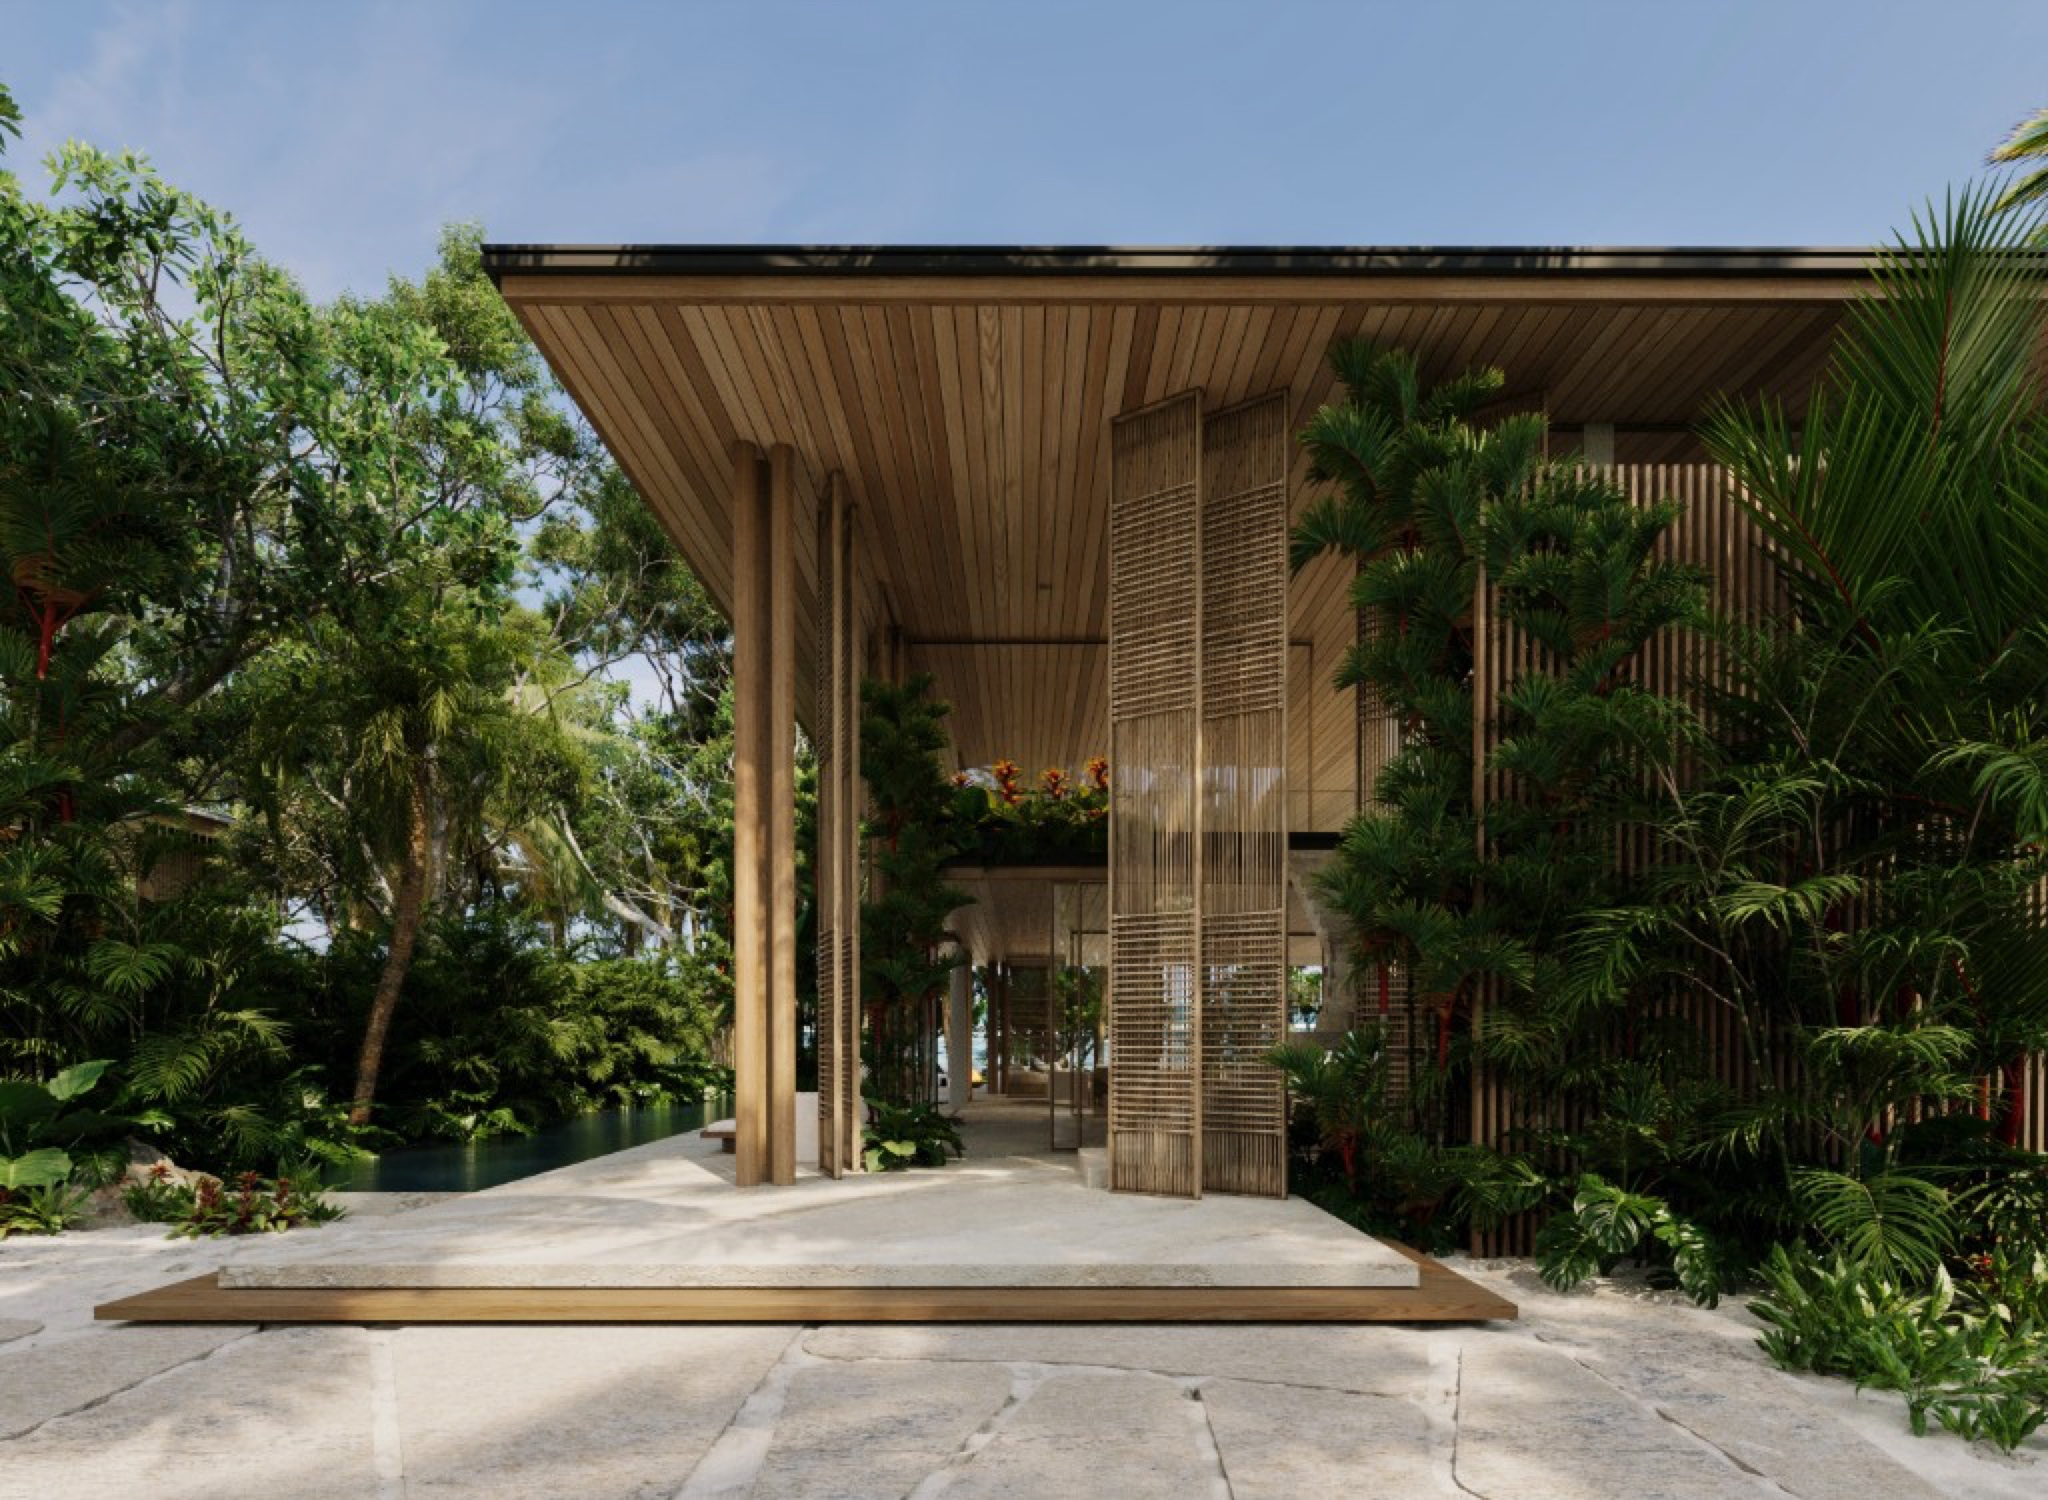
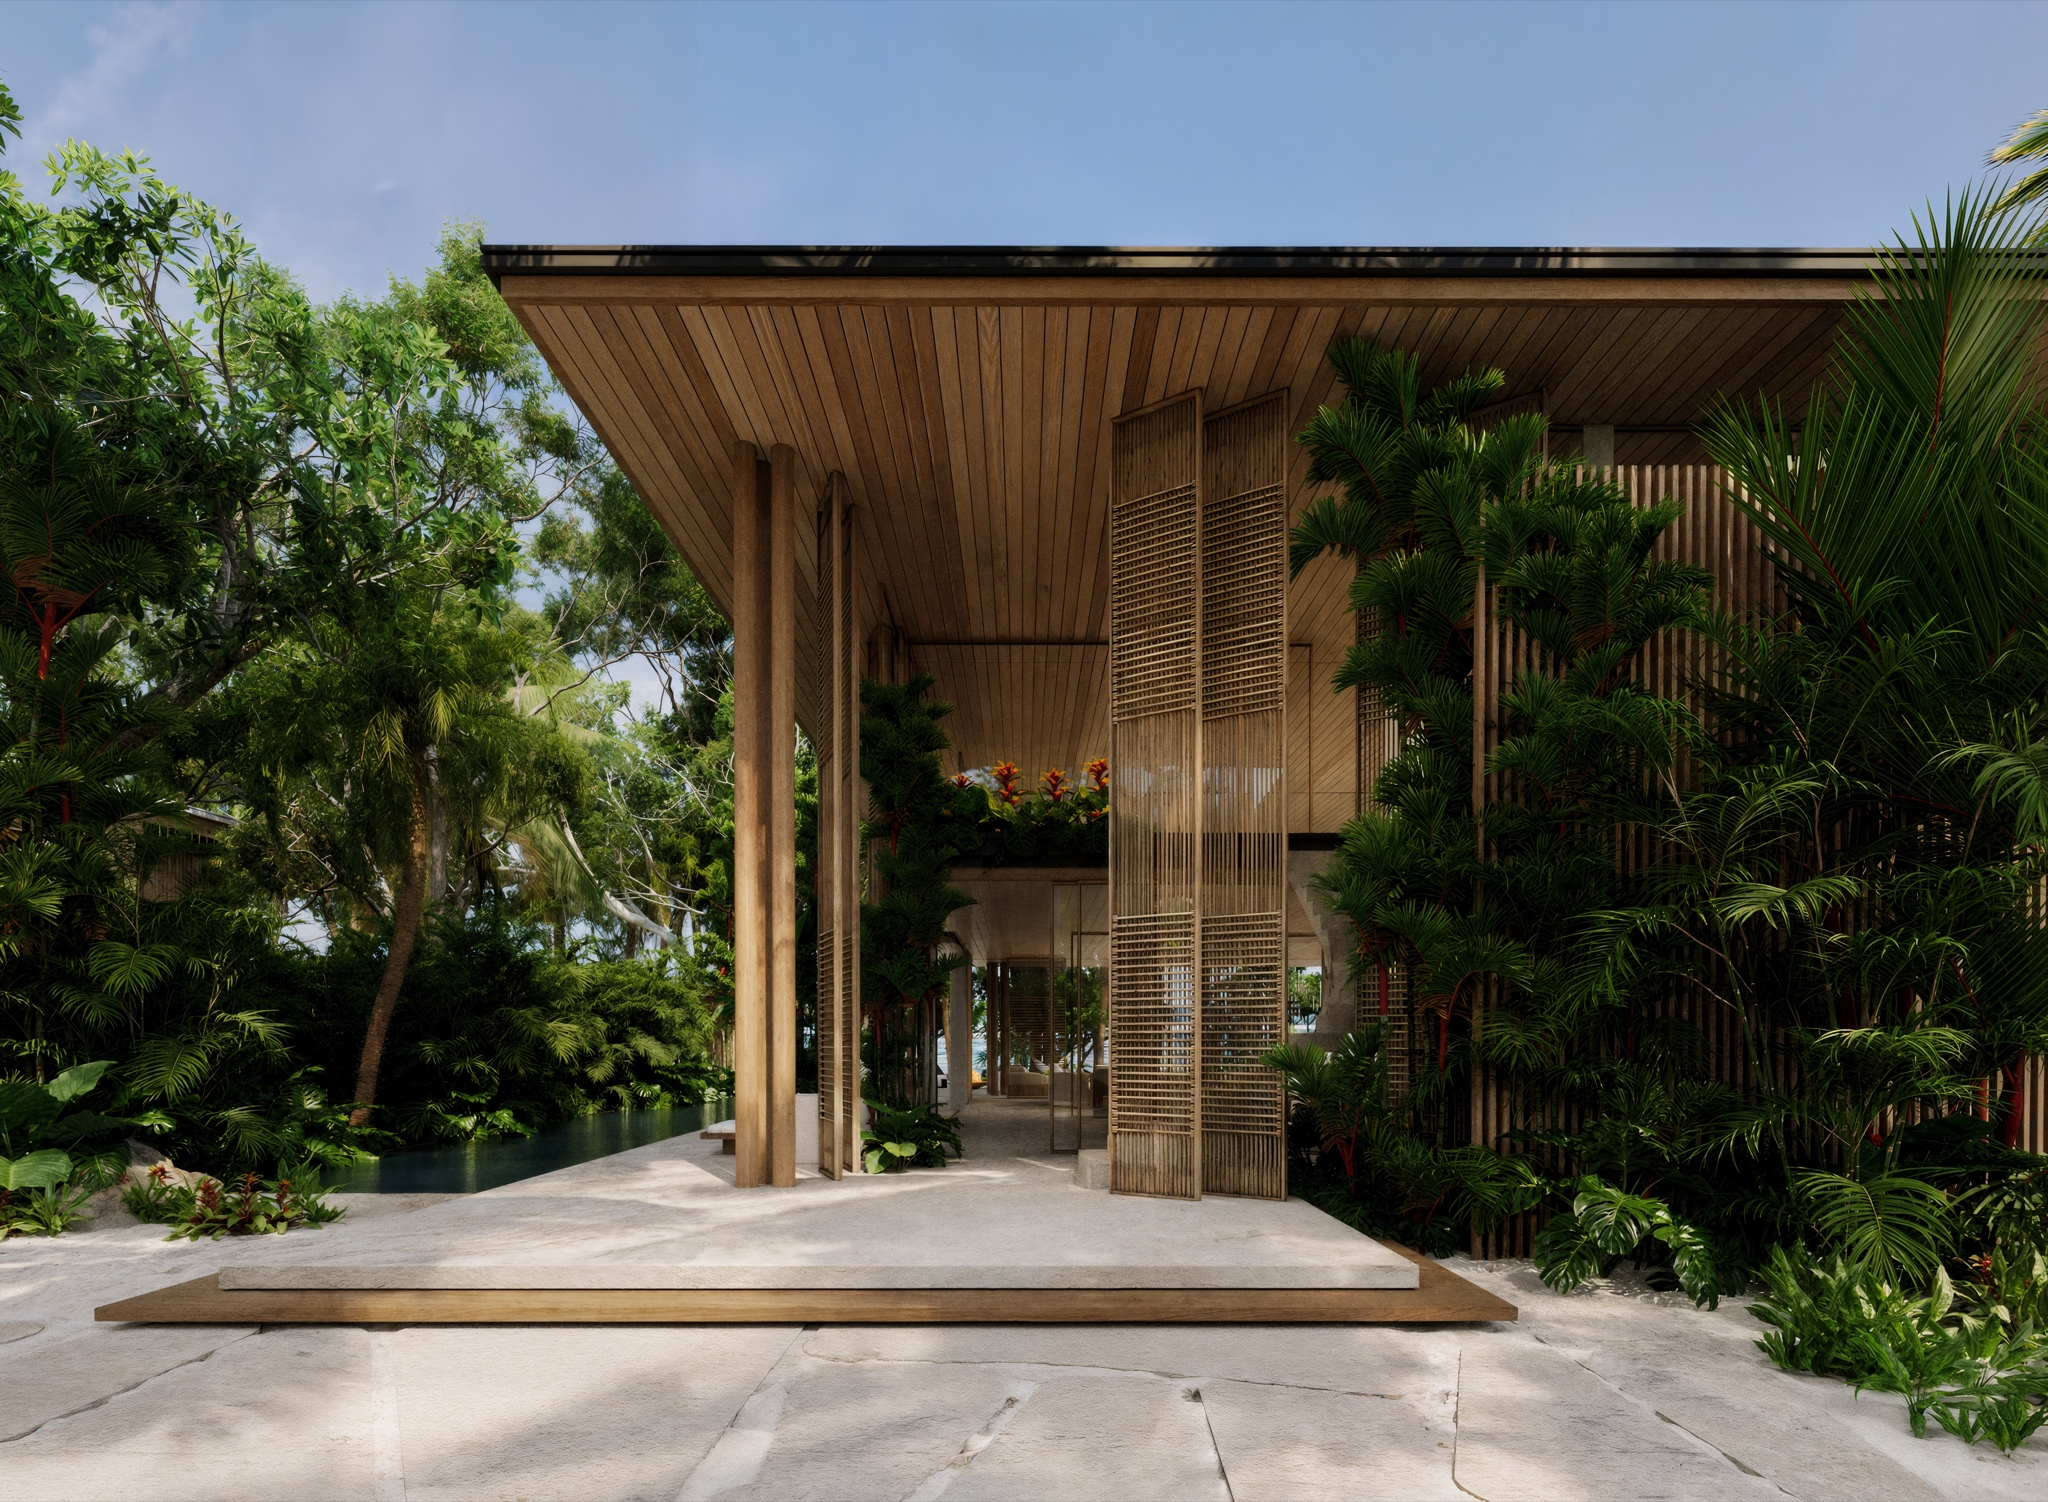
Update Flora hero and ecosystem imagery with new high-res exports.
Replace delivery assets and bump media cache version so GitHub Pages serves the new Flora backgrounds.

diff --git a/index.html b/index.html
@@ -25,7 +25,7 @@
     <link
       rel="preload"
       as="image"
-      href="assets/opt/enhanced_hero-bg-roca.jpg?v=20260610-1240"
+      href="assets/opt/enhanced_hero-bg-roca.jpg?v=20260610-1330"
       fetchpriority="high"
     />
   </head>
@@ -162,7 +162,7 @@
               <video
                 class="beyond__image beyond__video"
                 data-src="assets/jet.mp4?v=20260604-1527"
-                poster="assets/opt/beyond-jet.jpg?v=20260610-1240"
+                poster="assets/opt/beyond-jet.jpg?v=20260610-1330"
                 width="314"
                 height="188"
                 muted
@@ -188,7 +188,7 @@
               <video
                 class="beyond__image beyond__video"
                 data-src="assets/yacht.mp4?v=20260604-1525"
-                poster="assets/opt/beyond-yacht.jpg?v=20260610-1240"
+                poster="assets/opt/beyond-yacht.jpg?v=20260610-1330"
                 width="314"
                 height="188"
                 muted
@@ -227,15 +227,15 @@
             <div class="days__stage" aria-roledescription="carousel" aria-label="Experience highlights">
               <div class="days__track">
                 <article class="days__card" data-index="0">
-                  <img src="assets/opt/days-water.jpg?v=20260610-1240" alt="" width="205" height="274" loading="lazy" decoding="async" />
+                  <img src="assets/opt/days-water.jpg?v=20260610-1330" alt="" width="205" height="274" loading="lazy" decoding="async" />
                   <span class="days__label">Water sports</span>
                 </article>
                 <article class="days__card" data-index="1">
-                  <img src="assets/opt/days-dining.jpg?v=20260610-1240" alt="" width="205" height="274" loading="lazy" decoding="async" />
+                  <img src="assets/opt/days-dining.jpg?v=20260610-1330" alt="" width="205" height="274" loading="lazy" decoding="async" />
                   <span class="days__label">Fine dining</span>
                 </article>
                 <article class="days__card" data-index="2">
-                  <img src="assets/opt/days-wellness.jpg?v=20260610-1240" alt="" width="205" height="274" loading="lazy" decoding="async" />
+                  <img src="assets/opt/days-wellness.jpg?v=20260610-1330" alt="" width="205" height="274" loading="lazy" decoding="async" />
                   <span class="days__label">Wellness</span>
                 </article>
               </div>
@@ -257,7 +257,7 @@
           <video
             class="cta-final__video"
             data-src="assets/footer.mp4"
-            poster="assets/opt/cta-footer-poster.jpg?v=20260610-1240"
+            poster="assets/opt/cta-footer-poster.jpg?v=20260610-1330"
             width="2052"
             height="1008"
             muted

diff --git a/js/lazy-media.js b/js/lazy-media.js
@@ -1,7 +1,7 @@
 const ECOSYSTEM_GRADIENT =
   "linear-gradient(180deg, rgba(51, 47, 46, 0) 86.13%, #332f2e 108.21%)";
 
-export const MEDIA_VERSION = "20260610-1240";
+export const MEDIA_VERSION = "20260610-1330";
 
 /** No re-encode — keeps full source bitrate (footer CTA). */
 const SOURCE_ONLY_VIDEOS = new Set(["footer"]);